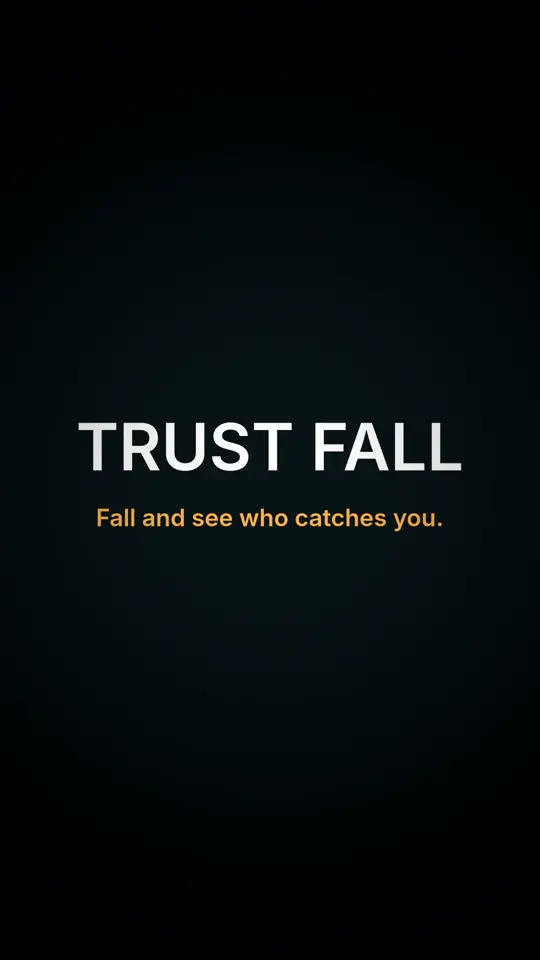
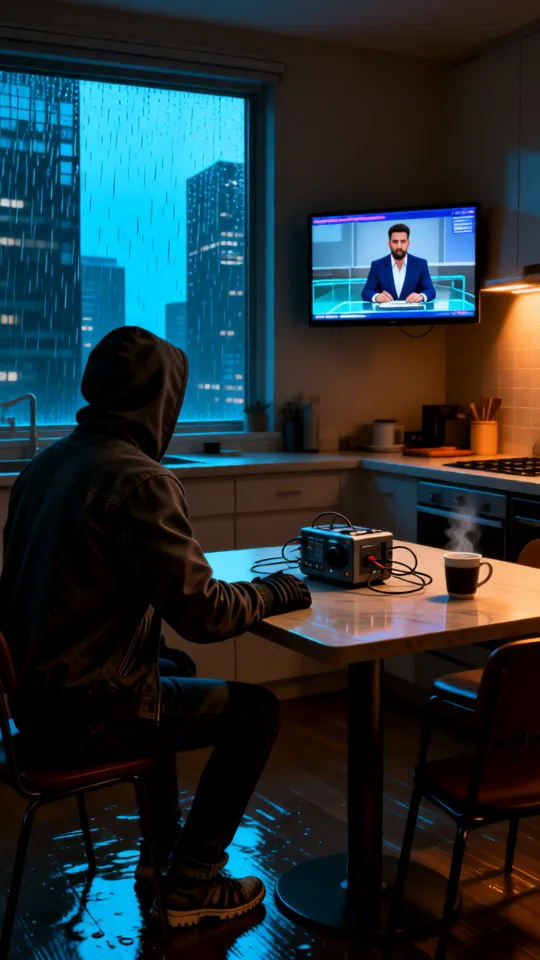
List Trust Fall on the home page after Night Shift, with a key-still card image

diff --git a/js/playtest.js b/js/playtest.js
@@ -6892,7 +6892,7 @@ async function nightAudioBetween(t, st) {
   }
 }
 
-/* ---------------- trust-fall-card: the unlisted story's card, rendered as if listed ---------------- */
+/* ---------------- trust-fall-card: Trust Fall's card on the home page, beside The Water Road's ---------------- */
 
 async function trustFallCardRun(options, t) {
   const id = (options && options.story) || "trust-fall";
@@ -6901,24 +6901,22 @@ async function trustFallCardRun(options, t) {
   const phone = (f) => {
     f.style.cssText = `position:fixed;top:0;left:0;width:${W}px;height:${H}px;border:0;z-index:2147483647;background:#070807;transform-origin:0 0;transform:scale(${Math.min(1, innerWidth / W, innerHeight / H)})`;
   };
-  // 1. The home page shows no card for the draft.
-  t.scene("home page: no Trust Fall card yet");
+  // 1. The home page lists Trust Fall after Night Shift, never as the featured hero.
+  t.scene("home page: Trust Fall's card");
   let doc = await frameLoad(t, (f) => { phone(f); f.src = "/"; });
   if (!doc) throw new Error("the home page didn't load in the frame");
   await waitFor(() => doc.querySelector(".story-card"), 10000);
-  const home = [...doc.querySelectorAll(".story-card, .hero")].map((c) => c.dataset.story).filter(Boolean);
-  if (home.includes(id) || doc.querySelector(`[data-story="${id}"]`)) t.problem("bug", `${id} has a card on the home page while it is listed: false`);
-  else t.event("no-card-yet", `home page cards: ${home.join(", ") || "none"}; no ${id}`);
-  if (!doc.querySelector('.story-card[data-story="water-road"]')) t.problem("bug", "The Water Road's card is not on the home page");
+  const home = [...doc.querySelectorAll(".story-card")].map((c) => c.dataset.story).filter(Boolean);
+  if (!home.includes(id)) t.problem("bug", `${id} has no card on the home page (cards: ${home.join(", ") || "none"})`);
+  else if (home[home.length - 1] !== id || home.indexOf("night-shift") !== home.length - 2) t.problem("bug", `${id}'s card should follow Night Shift's (cards: ${home.join(", ")})`);
+  else t.event("card-listed", `home page cards: ${home.join(", ")}`);
+  if (doc.querySelector(`.hero[data-story="${id}"]`)) t.problem("bug", `${id} is the featured hero; the hero is The Final Spark's`);
   t.progress(0.3);
-  // 2. The build's check page renders the draft's card with the real markup and styles.
-  t.scene("card check: Trust Fall beside The Water Road");
-  doc = await frameLoad(t, (f) => { phone(f); f.src = "/card-check/"; });
-  if (!doc) throw new Error("/card-check/ didn't load (npm run story writes it for a draft with a runtime and mood)");
-  await waitFor(() => doc.querySelector(`.story-card[data-story="${id}"]`), 10000);
+  // 2. Its card, at 390x844 beside The Water Road's.
+  t.scene("home page: Trust Fall beside The Water Road");
   const tf = doc.querySelector(`.story-card[data-story="${id}"]`);
   const wr = doc.querySelector('.story-card[data-story="water-road"]');
-  if (!tf || !wr) throw new Error("the check page lacks Trust Fall's or The Water Road's card");
+  if (!tf || !wr) throw new Error("the home page lacks Trust Fall's or The Water Road's card");
   tf.scrollIntoView({ block: "center", behavior: "instant" });
   await sleep(600);
   const entry = (window.ILTV_STORIES?.stories || []).find((x) => x.id === id) || {};
@@ -9408,7 +9406,7 @@ async function trustFallRun(options, t) {
   const ids = Object.keys(st.scenes);
   const dead = (sid) => !!st.scenes[sid].dead;
   const ending = (sid) => !!st.scenes[sid].ending;
-  if (listedStories().some((s) => s.id === id)) t.problem("bug", `${id} is listed on the landing page; it is a draft and stays unlisted`);
+  if (!listedStories().some((s) => s.id === id)) t.problem("bug", `${id} is not listed on the landing page`);
   // Which scenes have a made clip (<folder>/media/clip.mp4, found by a HEAD request) and so must play their real cut;
   // trustFallRealClips counts each such scene once, however often it is entered, and must equal that count.
   const clipMade = {};
@@ -10545,10 +10543,10 @@ installPlaytest({
     },
     {
       id: "trust-fall-card",
-      title: "Trust Fall's home card, rendered as if listed: logline, mood, About 8 min and a teaser, the same size as The Water Road's at 390x844; the home page still shows no Trust Fall card",
+      title: "Trust Fall's home card: logline, mood, About 8 min and a teaser, the same size as The Water Road's at 390x844; Trust Fall's card is on the home page after Night Shift's, not the hero",
       seconds: 40,
       tags: ["full"],
-      description: "Criteria for the unlisted Trust Fall's card. The home page (a frame at 390x844) has a card for The Water Road and none for Trust Fall (no-card-yet; the story stays listed: false). The build's check page /card-check/ (tools/build-story.mjs: every draft with a runtime and mood rendered with the landing page's own card markup and styles) shows both cards in the same frame: Trust Fall's has its logline, mood, \"About 8 min\" and teaser (card-fields), is the same width and picture size as The Water Road's (card-size; the pair's heights and the Play button are logged), and its card is a tap target of 44 px or more that links to /?story=trust-fall, pressed by touch (a pointer-coarse tap) and followed (card-tap). Metrics trustFallCardWidth, waterRoadCardWidth, trustFallCardHeight, waterRoadCardHeight."
+      description: "Criteria for Trust Fall's listed card. The home page (a frame at 390x844) has a card for The Water Road, and Trust Fall's follows Night Shift's (card-listed); Trust Fall is not the featured hero. Both cards in the same frame: Trust Fall's has its logline, mood, \"About 8 min\" and teaser (card-fields), is the same width and picture size as The Water Road's (card-size; the pair's heights and the Play button are logged), and its card is a tap target of 44 px or more that links to /?story=trust-fall, pressed by touch (a pointer-coarse tap) and followed (card-tap). Metrics trustFallCardWidth, waterRoadCardWidth, trustFallCardHeight, waterRoadCardHeight."
     },
     {
       id: "trust-fall-third",

diff --git a/index.html b/index.html
@@ -104,6 +104,20 @@
           </div>
         </div>
       </a>
+      <a class="story-card" href="/?story=trust-fall" data-story="trust-fall" data-teaser="It says good morning. Do you believe it?" data-progress="new">
+        <picture><source type="image/webp" srcset="/assets/images/trust-fall.webp"><img src="/assets/images/trust-fall.jpg" alt="A hooded thief at a rainy kitchen table in an amber glow, a wall TV showing a newsman saying good morning, the city towers outside" width="540" height="960" decoding="async" loading="lazy"></picture>
+        <span class="story-card-ribbon">Not started</span>
+        <div class="story-card-text">
+          <h2>Trust Fall</h2>
+          <p class="story-card-meta"><span class="meta-runtime">About 8 min</span><span class="meta-mood">Near-future, tense, hopeful</span></p>
+          <p>A thief who hates the machine, a city it&#x27;s about to switch on, and a husband who says good morning on the news. Who catches you when you fall?</p>
+          <div class="story-card-foot">
+            <span class="story-card-go">Play</span>
+            <span class="story-card-explored">0% explored</span>
+            <span class="story-card-endings" hidden></span>
+          </div>
+        </div>
+      </a>
       <!-- /stories -->
       </div>
     </section>

diff --git a/js/story-data.js b/js/story-data.js
@@ -26466,7 +26466,7 @@ window.ILTV_STORIES = {
    "tagline": "Fall, and see who catches you.",
    "logline": "A thief who hates the machine, a city it's about to switch on, and a husband who says good morning on the news. Who catches you when you fall?",
    "image": "/assets/images/trust-fall.jpg",
-   "listed": false,
+   "listed": true,
    "cookie": "trustFallProgress",
    "tap": {
     "title": "TRUST FALL",

diff --git a/story/README.md b/story/README.md
@@ -13,7 +13,7 @@ and each story's scenes, cast, music and labels are in `story/<id>.json`. `npm r
 | **The Final Spark** | `story/final-spark.json` | the site root, as they always were: `/the-sewer/`, `/you-turned-right/`, … | this file, below |
 | **The Water Road** (approved by J 2026-10-18, on the landing page) | `story/water-road.json` | `/water-road/the-water-road/`, … | `story/water-road.md` |
 | **Night Shift** (listed; its demo, `night-shift-demo`, is the unlisted placeholder the console playtests use) | `story/night-shift-demo.json` (the real story: `story/night-shift.json`) | `/night-shift-demo/radio-check/`, … | `story/night-shift.md` |
-| **Trust Fall** (draft, `listed: false`, J asked for it 2026-11-13; 14 of 20 scenes play their cut, the rest a graded still with narration until their clips are made) | `story/trust-fall.json` | `/trust-fall/first-light/`, … | `story/trust-fall.md` |
+| **Trust Fall** (listed on the home page after Night Shift since 2026-11-14, J asked for it 2026-11-13; 14 of 20 scenes play their cut, the rest a graded still with narration until their clips are made) | `story/trust-fall.json` | `/trust-fall/first-light/`, … | `story/trust-fall.md` |
 
 ## Adding a story (a data job, no code)
 
